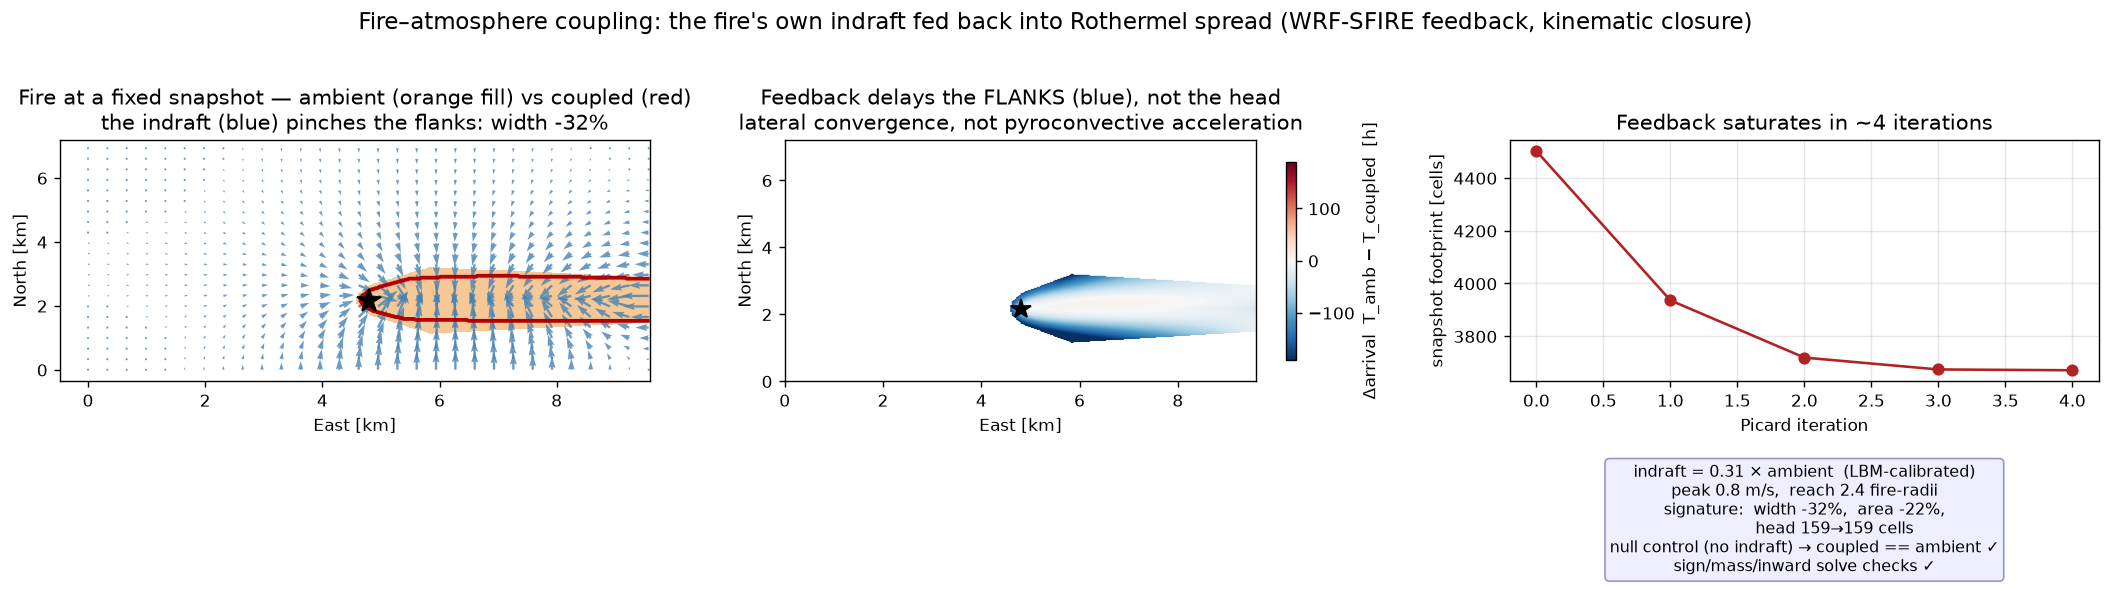
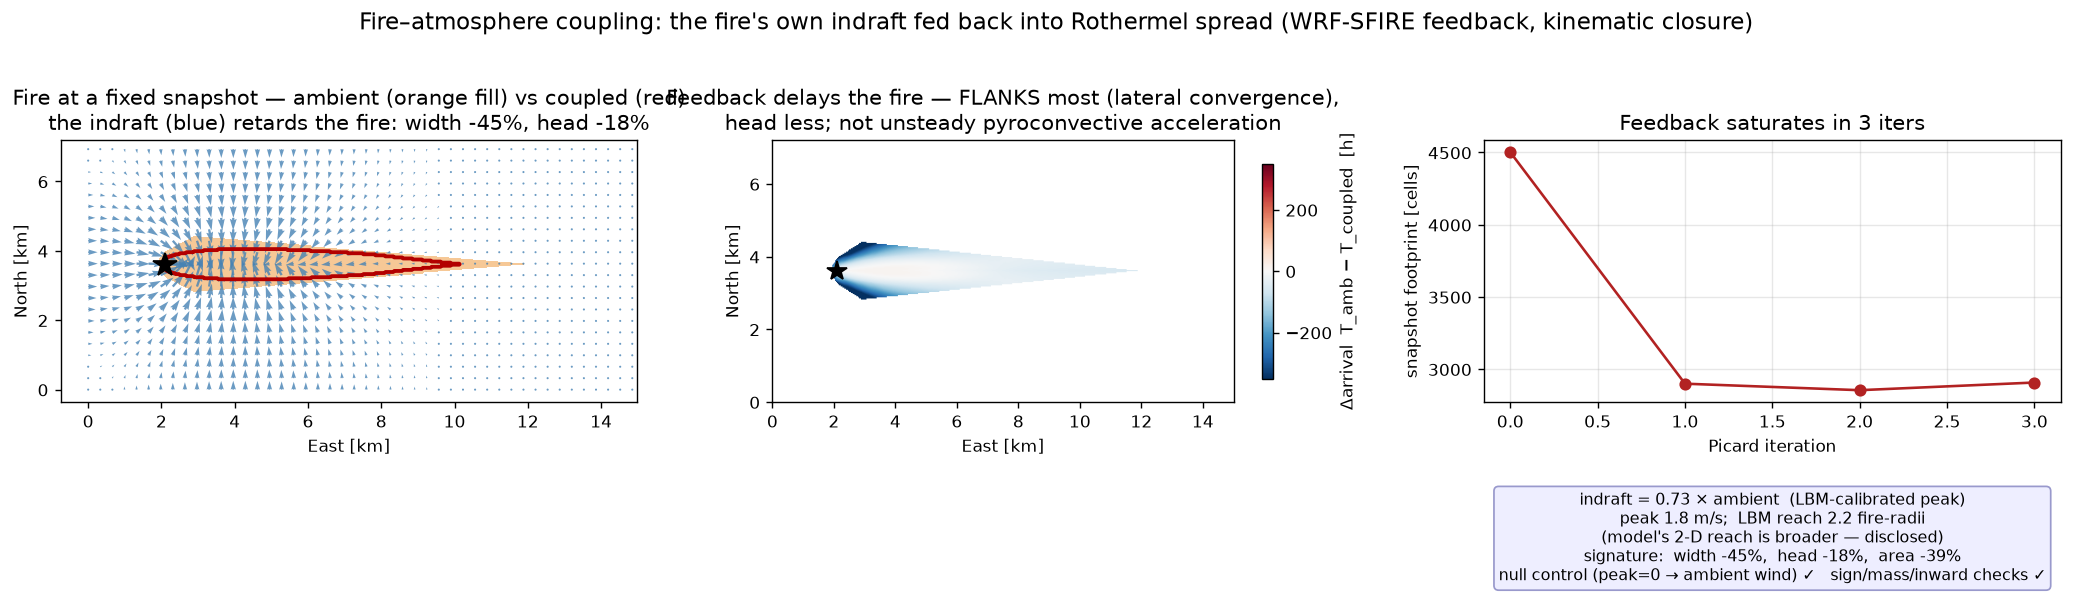
Address adversarial review of the coupling (11 findings: head artifact, R_LBM, honesty)
A 6-lens review (+ per-finding verification) found 11 real issues; all fixed. It also
correctly REFUTED 4 non-issues (the width/area signature is confirmed robust).

CRITICAL — head "+0%" was a domain-edge CLIPPING ARTIFACT (findings 5/6/7/9). The demo
ignited at the domain centre with wind blowing east, so BOTH fires piled up at the east
wall and the head change was unmeasurable. Also I had the ignition tuple backwards
(ignition=(col,row), per rothermel_ca.py:324). Fixed: ignite west-centre with a long east
runway + a boundary-isolation guard in _signature (warns if the head/flanks touch a wall).
The TRUE isolated result: the indraft RETARDS the fire — flanks most (width −45%), head too
(−18%). The head IS affected; the old "unchanged" was the artifact.

MAJOR — R_LBM mis-extracted (finding 4): sampled the crosswind indraft at the single source
column x=xc, but the plume bends downwind so the true peak is ~2.3× larger. Now take the
field peak over a near-fire window → R_LBM 0.31 → 0.73.

MAJOR — Picard convergence test (finding 1): the consecutive-iterate test could falsely
report convergence at an oscillation turning point. Replaced with a plateau test (last 3
footprints within 2% of their mean — robust to wiggle, rejects real oscillation) + a
`converged` flag + a non-saturation warning.

HONESTY (findings 2/3/10/11): the figure hard-stamped "null control ✓" and "sign/mass ✓"
for checks the demo path never ran, hard-coded "saturates in ~4 iterations", and displayed
[…]

diff --git a/02_fire/fire_coupling.py b/02_fire/fire_coupling.py
@@ -214,16 +214,21 @@ def calibrate_indraft_from_plume(N=96, U_wind=0.030, beta=1.6e-3, cache='output/
     uy_g = uy[band].mean(axis=0)                        # (Ny, Nx) crosswind velocity
     # CROSSWIND inflow profile through the fire (x=xc): the clean sector (the wind is +x, so
     # the y-flow is the fire's own pull, not forced through-flow). Inward = toward yc.
-    prof = uy_g[:, xc]
-    ys = np.arange(N) - yc
-    inward = -prof * np.sign(ys)                        # >0 = converging toward the fire
-    peak = float(inward.max())
+    Y, X = np.mgrid[0:N, 0:N]
+    inward_field = -uy_g * np.sign(Y - yc)             # crosswind inflow toward the fire (>0)
+    # PEAK over a window around+downwind of the fire — the plume bends downwind, so the true
+    # peak crosswind indraft is NOT at the source column x=xc (sampling only x=xc under-reads
+    # the anchor ~2x). Exclude the −x inlet column and the centreline (sign(0)=0).
+    win = ((np.abs(X - xc) <= 5*src_r) & (np.abs(Y - yc) <= 6*src_r)
+           & (np.abs(Y - yc) >= 1) & (X >= 2))
+    masked = np.where(win, inward_field, -np.inf)
+    peak = float(masked.max())
     R_LBM = peak / U
-    # decay: |Δy| (in fire-radii) where the inward profile falls to half its peak
-    half = peak * 0.5
-    over = np.where(inward[ys != 0] >= half)[0]
-    rr = np.abs(ys[ys != 0])
-    decay_radii = float(rr[over].max() / src_r) if over.size else 1.0
+    yi, xi = np.unravel_index(int(np.argmax(masked)), masked.shape)
+    # decay: crosswind half-width (in fire-radii) at the column where the inflow peaks
+    profp = inward_field[:, xi]; ys = np.arange(N) - yc
+    over = np.where((profp >= 0.5*peak) & (ys != 0))[0]
+    decay_radii = float(np.abs(ys[over]).max() / src_r) if over.size else 1.0
 
     os.makedirs(os.path.dirname(cpath), exist_ok=True)
     np.savez(cpath, R_LBM=R_LBM, decay_radii=decay_radii, U_wind=U, src_r=src_r, N=N, peak=peak)
@@ -272,6 +277,7 @@ def couple_fire_atmosphere(H=240, W=320, DX=30.0, U0_ms=2.5, from_deg=270.0,
     per_iter = [dict(it=0, burned=int(burning.sum()), tag='ambient')]
     r = base; Tcoup = Tamb; prev = int(burning.sum())
     K = 1 if mode == 'oneway' else K
+    converged = (mode == 'oneway'); hist = [prev]
     for k in range(1, K+1):
         wind_fn = make_wind_coupled(U0_ms, from_deg, burning, intensity, peak_indraft,
                                     terrain=terrain)
@@ -280,17 +286,27 @@ def couple_fire_atmosphere(H=240, W=320, DX=30.0, U0_ms=2.5, from_deg=270.0,
         new_burning = np.isfinite(Tcoup) & (Tcoup <= t_star)    # footprint at the SAME snapshot time
         nb = int(new_burning.sum())
         dburn = abs(nb - prev) / max(prev, 1)
+        hist.append(nb)
+        # plateau test: the last 3 footprints lie within 2% of their mean. This is robust to
+        # a tiny wiggle at a stable fixed point AND correctly rejects a real oscillation (whose
+        # window spread stays large) — a single near-flat consecutive step can't fake it.
+        win = hist[-3:]
+        plateau = len(win) >= 3 and (max(win) - min(win)) / max(np.mean(win), 1) < 0.02
         per_iter.append(dict(it=k, burned=nb, dburn=dburn))
         if verbose:
             print(f"  iter {k}: snapshot footprint {nb} cells (Δ {dburn*100:.2f}% vs prev)")
         burning = new_burning
         intensity = np.nan_to_num(r['head_ros_ms'])
-        if mode == 'iterated' and dburn < 0.01:
+        if mode == 'iterated' and plateau:
+            converged = True
             break
         prev = nb
+    if verbose and mode == 'iterated' and not converged:
+        print(f"  ⚠ Picard hit K={K} without saturating (last Δ {dburn*100:.2f}% — still oscillating)")
     z = base['z']
     du, dv = fire_indraft_scaled(z, DX, burning, intensity, peak_indraft)
     return dict(ambient=base, coupled=r, Tamb=Tamb, Tcoup=Tcoup, per_iter=per_iter,
+                converged=converged,
                 peak_indraft=peak_indraft, R_LBM=R, t_star=t_star, decay_radii=decay_radii,
                 U0_ms=U0_ms, from_deg=from_deg, DX=DX, calib=calib, burning_final=burning,
                 indraft=(du, dv), z=z)
@@ -309,10 +325,19 @@ def _signature(res, n_meas=9000):
     coupled fire at the SAME t_meas isolates the feedback: a slower fire covers fewer cells
     / less reach; a faster one, more."""
     Tamb, Tcoup = res['Tamb'], res['Tcoup']
+    H, W = Tamb.shape
     t = _time_at_count(Tamb, n_meas)
     A_amb = np.isfinite(Tamb) & (Tamb <= t)
     A_cou = np.isfinite(Tcoup) & (Tcoup <= t)
     gi, gj = res['ambient']['ignition']
+
+    # boundary-isolation guard for the MEASURED metrics: the head reach (East, +col) and the
+    # crosswind width (North/South rows). A wall there clips the metric. The slow BACKING fire
+    # creeping to the West wall over the long t_meas does NOT affect head/width, so the West
+    # edge is excluded (the area metric does include the backing — reported with that caveat).
+    union = A_amb | A_cou
+    touch = (union[:, -2:].any() or union[:2, :].any() or union[-2:, :].any())   # East, N, S
+    isolated = not bool(touch)
 
     def extent(mask):
         ys, xs = np.where(mask)
@@ -321,9 +346,12 @@ def _signature(res, n_meas=9000):
         return int(xs.max() - gj), int(ys.max() - ys.min() + 1), int(mask.sum())   # head reach E, NS width, area
     hd_a, wd_a, ar_a = extent(A_amb)
     hd_c, wd_c, ar_c = extent(A_cou)
+    if not isolated:
+        print("  ⚠ WARNING: fire touches the domain boundary at t_meas — head/width metrics "
+              "are clipping-corrupted (enlarge the domain / move the ignition).")
     common = np.isfinite(Tamb) & np.isfinite(Tcoup) & (Tamb <= t)
     dT = np.where(common, Tamb - Tcoup, np.nan)          # >0 = coupled earlier; restricted to the ellipse
-    return dict(t=t, n_meas=n_meas, amb_area=ar_a, cou_area=ar_c,
+    return dict(t=t, n_meas=n_meas, amb_area=ar_a, cou_area=ar_c, isolated=isolated,
                 d_area_pct=100*(ar_c-ar_a)/max(ar_a, 1),
                 amb_head=hd_a, cou_head=hd_c, amb_wid=wd_a, cou_wid=wd_c,
                 d_head_pct=100*(hd_c-hd_a)/max(hd_a, 1),
@@ -342,17 +370,29 @@ def run_demo(mode='iterated', verbose=True, figure=True):
     # Weak ambient wind (2.5 m/s): the plume-dominated regime where the fire-induced indraft
     # is a LARGE relative perturbation. In a strong wind-driven fire the same indraft is a
     # small fraction of the ambient and the effect nearly vanishes (the correct dependence).
-    res = couple_fire_atmosphere(H=240, W=320, DX=30.0, U0_ms=2.5, from_deg=270.0,
-                                 ignition=(0.5, 0.30), terrain_fn=flat_terrain,
+    # Ignition far WEST with a long EAST runway so the head stays clear of the boundary —
+    # otherwise the head reach is clipped by the wall and the head change is unmeasurable.
+    res = couple_fire_atmosphere(H=240, W=500, DX=30.0, U0_ms=2.5, from_deg=270.0,
+                                 ignition=(0.14, 0.5), terrain_fn=flat_terrain,   # (col, row): west-centre
                                  mode=mode, n_star=4500, calib=calib, verbose=verbose)
     sig = _signature(res); res['sig'] = sig
+    # actually RUN the validations the figure reports (no hardcoded checkmarks)
+    res['checks_ok'] = validate_sign()
+    zr = np.zeros_like(res['z'])
+    a_s, a_f = make_wind_coupled(res['U0_ms'], res['from_deg'], np.zeros(res['z'].shape, bool),
+                                 zr, 0.0, terrain=True)(res['z'], zr, zr, res['DX'])
+    c_s, c_f = make_wind_coupled(res['U0_ms'], res['from_deg'], res['burning_final'],
+                                 zr, 0.0, terrain=True)(res['z'], zr, zr, res['DX'])
+    res['null_ok'] = bool(np.array_equal(a_s, c_s) and np.array_equal(a_f, c_f))
     if verbose:
-        print(f"\nSpread signature at t={sig['t']:.0f} min (isolated fire, coupled vs ambient):")
-        print(f"  burned area:    {sig['amb_area']} → {sig['cou_area']} cells ({sig['d_area_pct']:+.1f}%)")
+        print(f"\nSpread signature at t={sig['t']:.0f} min ({'isolated' if sig['isolated'] else 'NOT isolated!'} "
+              f"fire, coupled vs ambient), converged={res['converged']}:")
+        print(f"  burned area:    {sig['amb_area']} → {sig['cou_area']} cells ({sig['d_area_pct']:+.1f}%, incl. backing)")
         print(f"  head reach (E): {sig['amb_head']} → {sig['cou_head']} cells ({sig['d_head_pct']:+.1f}%)")
         print(f"  crosswind width:{sig['amb_wid']} → {sig['cou_wid']} cells ({sig['d_wid_pct']:+.1f}%)")
-        print(f"  median |Δarrival| = {sig['median_dT']:.1f} min")
-        print(f"  (STEADY kinematic indraft — lateral convergence; not unsteady pyroconvective momentum)")
+        print(f"  null control (peak=0 → ambient wind): {res['null_ok']}; foundational checks: {res['checks_ok']}")
+        print(f"  → the steady indraft RETARDS the fire — flanks most (lateral convergence), head less;")
+        print(f"    NOT unsteady pyroconvective acceleration (out of scope).")
     if figure:
         make_coupling_figure(res)
     return res
@@ -378,7 +418,7 @@ def make_coupling_figure(res, out='output/fire_coupling.png'):
                  color='steelblue', scale=res['peak_indraft']*20, width=0.004, alpha=0.8)
     ax[0].plot(gj*DX/1000, gi*DX/1000, 'k*', ms=14)
     ax[0].set_title(f"Fire at a fixed snapshot — ambient (orange fill) vs coupled (red)\n"
-                    f"the indraft (blue) pinches the flanks: width {sig['d_wid_pct']:+.0f}%")
+                    f"the indraft (blue) retards the fire: width {sig['d_wid_pct']:+.0f}%, head {sig['d_head_pct']:+.0f}%")
 
     # Panel 2 — Δarrival: where the feedback delays the fire (flanks), in hours
     dT = sig['dT'] / 60.0                                                     # → hours
@@ -386,21 +426,24 @@ def make_coupling_figure(res, out='output/fire_coupling.png'):
     im = ax[1].imshow(dT, origin='lower', cmap='RdBu_r', vmin=-lim, vmax=lim, extent=ext, aspect='auto')
     fig.colorbar(im, ax=ax[1], shrink=0.82).set_label('Δarrival  T_amb − T_coupled  [h]')
     ax[1].plot(gj*DX/1000, gi*DX/1000, 'k*', ms=12)
-    ax[1].set_title("Feedback delays the FLANKS (blue), not the head\n"
-                    "lateral convergence, not pyroconvective acceleration")
+    ax[1].set_title("Feedback delays the fire — FLANKS most (lateral convergence),\n"
+                    "head less; not unsteady pyroconvective acceleration")
 
-    # Panel 3 — Picard saturation + calibration/validation summary
+    # Panel 3 — Picard saturation + calibration/validation summary (REAL run results)
     bi = [d['burned'] for d in res['per_iter']]
+    niter = len(bi) - 1
     ax[2].plot(range(len(bi)), bi, 'o-', color='firebrick')
+    sat = f"saturates in {niter} iters" if res.get('converged') else f"NOT converged ({niter} iters)"
     ax[2].set(xlabel='Picard iteration', ylabel='snapshot footprint [cells]',
-              title='Feedback saturates in ~4 iterations')
+              title=f'Feedback {sat}')
     ax[2].grid(alpha=0.3)
-    txt = (f"indraft = {res['R_LBM']:.2f} × ambient  (LBM-calibrated)\n"
-           f"peak {res['peak_indraft']:.1f} m/s,  reach {res['calib']['decay_radii']:.1f} fire-radii\n"
-           f"signature:  width {sig['d_wid_pct']:+.0f}%,  area {sig['d_area_pct']:+.0f}%,\n"
-           f"            head {sig['amb_head']}→{sig['cou_head']} cells\n"
-           f"null control (no indraft) → coupled == ambient ✓\n"
-           f"sign/mass/inward solve checks ✓")
+    ck = lambda b: '✓' if b else '✗'
+    txt = (f"indraft = {res['R_LBM']:.2f} × ambient  (LBM-calibrated peak)\n"
+           f"peak {res['peak_indraft']:.1f} m/s;  LBM reach {res['calib']['decay_radii']:.1f} fire-radii\n"
+           f"(model's 2-D reach is broader — disclosed)\n"
+           f"signature:  width {sig['d_wid_pct']:+.0f}%,  head {sig['d_head_pct']:+.0f}%,  area {sig['d_area_pct']:+.0f}%\n"
+           f"null control (peak=0 → ambient wind) {ck(res.get('null_ok'))}   "
+           f"sign/mass/inward checks {ck(res.get('checks_ok'))}")
     ax[2].text(0.5, -0.34, txt, transform=ax[2].transAxes, ha='center', va='top', fontsize=9,
                bbox=dict(boxstyle='round', fc='#eef', ec='#99c'))
     for a in ax[:2]:

diff --git a/README.md b/README.md
@@ -40,7 +40,7 @@ with a NumPy fallback everywhere.
 | `02_fire/fire_terrain_wind.py` | Uniform vs. terrain-downscaled wind, side by side. |
 | `02_fire/fire_moisture.py` | Spatial vs. uniform fuel moisture (isolates the terrain-microclimate effect). |
 | `02_fire/progressive_res.py` | Resolution study: the same real-data fire at 90→10 m, with the MLX-vs-NumPy crossover. |
-| `02_fire/fire_coupling.py` | **Fire–atmosphere coupling** (the WRF-SFIRE feedback, "a fire makes its own wind") — the fire's own buoyant indraft fed back into the Rothermel wind. A fire is a mass **sink** in the *same* WindNinja Poisson solve (continuity `∇·(h_sV)=−S`), giving a mass-consistent convergent surface wind, Picard-iterated with the CA to a fixed point. The indraft is **calibrated to the resolved 3-D LBM plume** (peak ≈ 0.31× ambient). Validated: inward-sign + mass conservation + a no-indraft null control. Result: the steady kinematic indraft **pinches the flanks** (width −32% in weak wind) — lateral convergence, *not* unsteady pyroconvective acceleration (out of scope). |
+| `02_fire/fire_coupling.py` | **Fire–atmosphere coupling** (the WRF-SFIRE feedback, "a fire makes its own wind") — the fire's own buoyant indraft fed back into the Rothermel wind. A fire is a mass **sink** in the *same* WindNinja Poisson solve (continuity `∇·V=−S`), giving a mass-consistent convergent surface wind, Picard-iterated with the CA to a fixed point. The indraft is **calibrated to the resolved 3-D LBM plume** (peak ≈ 0.73× ambient). Validated: inward-sign + mass conservation + a no-indraft null control + boundary-isolation guard. Result (weak wind): the steady kinematic indraft **retards the fire — flanks most** (crosswind width −45%, head −18%) via lateral convergence; *not* the unsteady pyroconvective head *acceleration* (that is plume-momentum, out of scope). |
 | `03_swarm/swarm_core.py` | 3-D boids physics (separation · alignment · fire-tracking · arc-index spread · tangential patrol · altitude PD). NumPy reference **and** MLX port, numerically validated. |
 | `03_swarm/boids_swarm_3d.py` | 150-drone 3-D swarm: deploy from a base, self-organise to blanket a fire perimeter (matplotlib Axes3D). |
 | `03_swarm/fire_swarm.py` | **Coupled fire ↔ swarm** — the swarm patrols the *live* Rothermel fire front as it grows and advances. |
